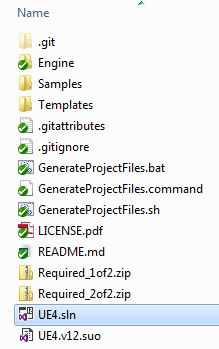
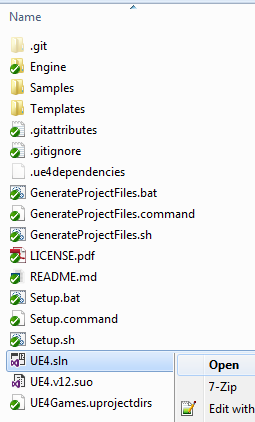
Updated screenshots after the 4.6 upgrade

Changed region(s): [[0.0, 0.086, 1.0, 1.0], [0.0, 0.0, 1.0, 0.0573]]

diff --git a/ads.md b/ads.md
@@ -1,0 +1,21 @@
+# Advertisements in Games
+
+Developers are not restricted from using ads in games.
+
+The review team will be checking to make sure ads are not doing bad things like breaking the game. 
+
+## 3rd Party Platforms
+
+There are numerous 3rd party advertisement delivery platforms.
+
+### Chartboost
+
+* [Chartboost](https://www.chartboost.com/en/) is an ad delivery network designed for games with a cross-platform API
+
+### Fyber
+
+* [Fyber](http://www.fyber.com/) provides advanced targeting and report analytics with a nice dashboard
+
+### Others
+
+* Note: This list is just getting started. Be sure to email `officehours@ouya.tv` to share your experiences with ad platforms and to add items to this list.

diff --git a/unreal.md b/unreal.md
@@ -107,6 +107,8 @@ Checking out files: 100% (26995/26995), done.
 
 * *Important*: The 4.6 release introduces a new system for downloading binary dependencies - just run the 'Setup' script in the root of your UE folder to get started. See the [README](https://github.com/EpicGames/UnrealEngine/blob/4.6.0-release/README.md) or [forum post](https://forums.unrealengine.com/showthread.php?51998-GitHub-dependency-zips-and-latest-preview-snapshots) for more information.
 
+![Generate project files](unreal/image_1.png)
+
 * Follow the [Build the Engine](https://wiki.unrealengine.com/GitHub_Setup#Buld_the_Engine) steps to generate the Visual Studio solution.
  
 ![Generate project files](unreal/image_2.png)
